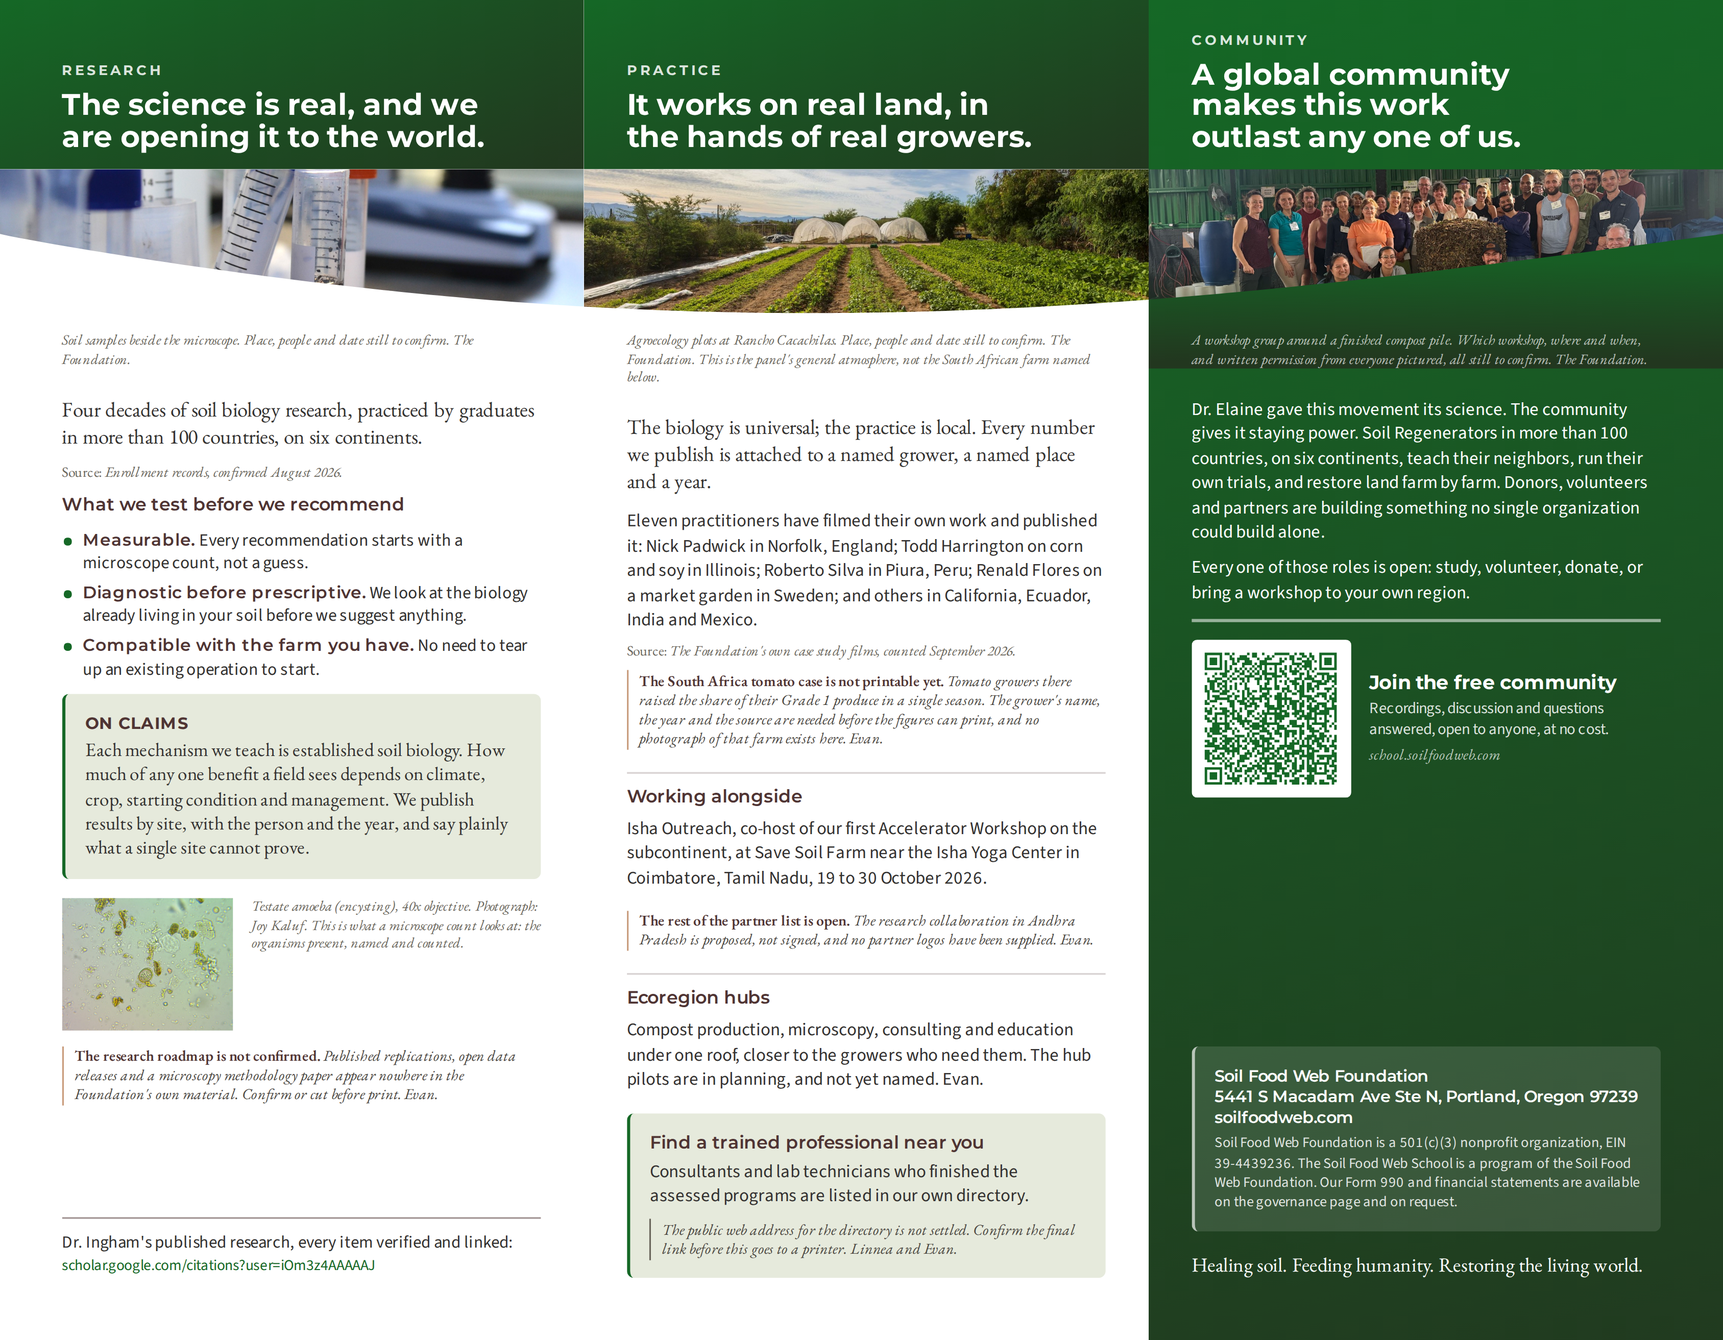
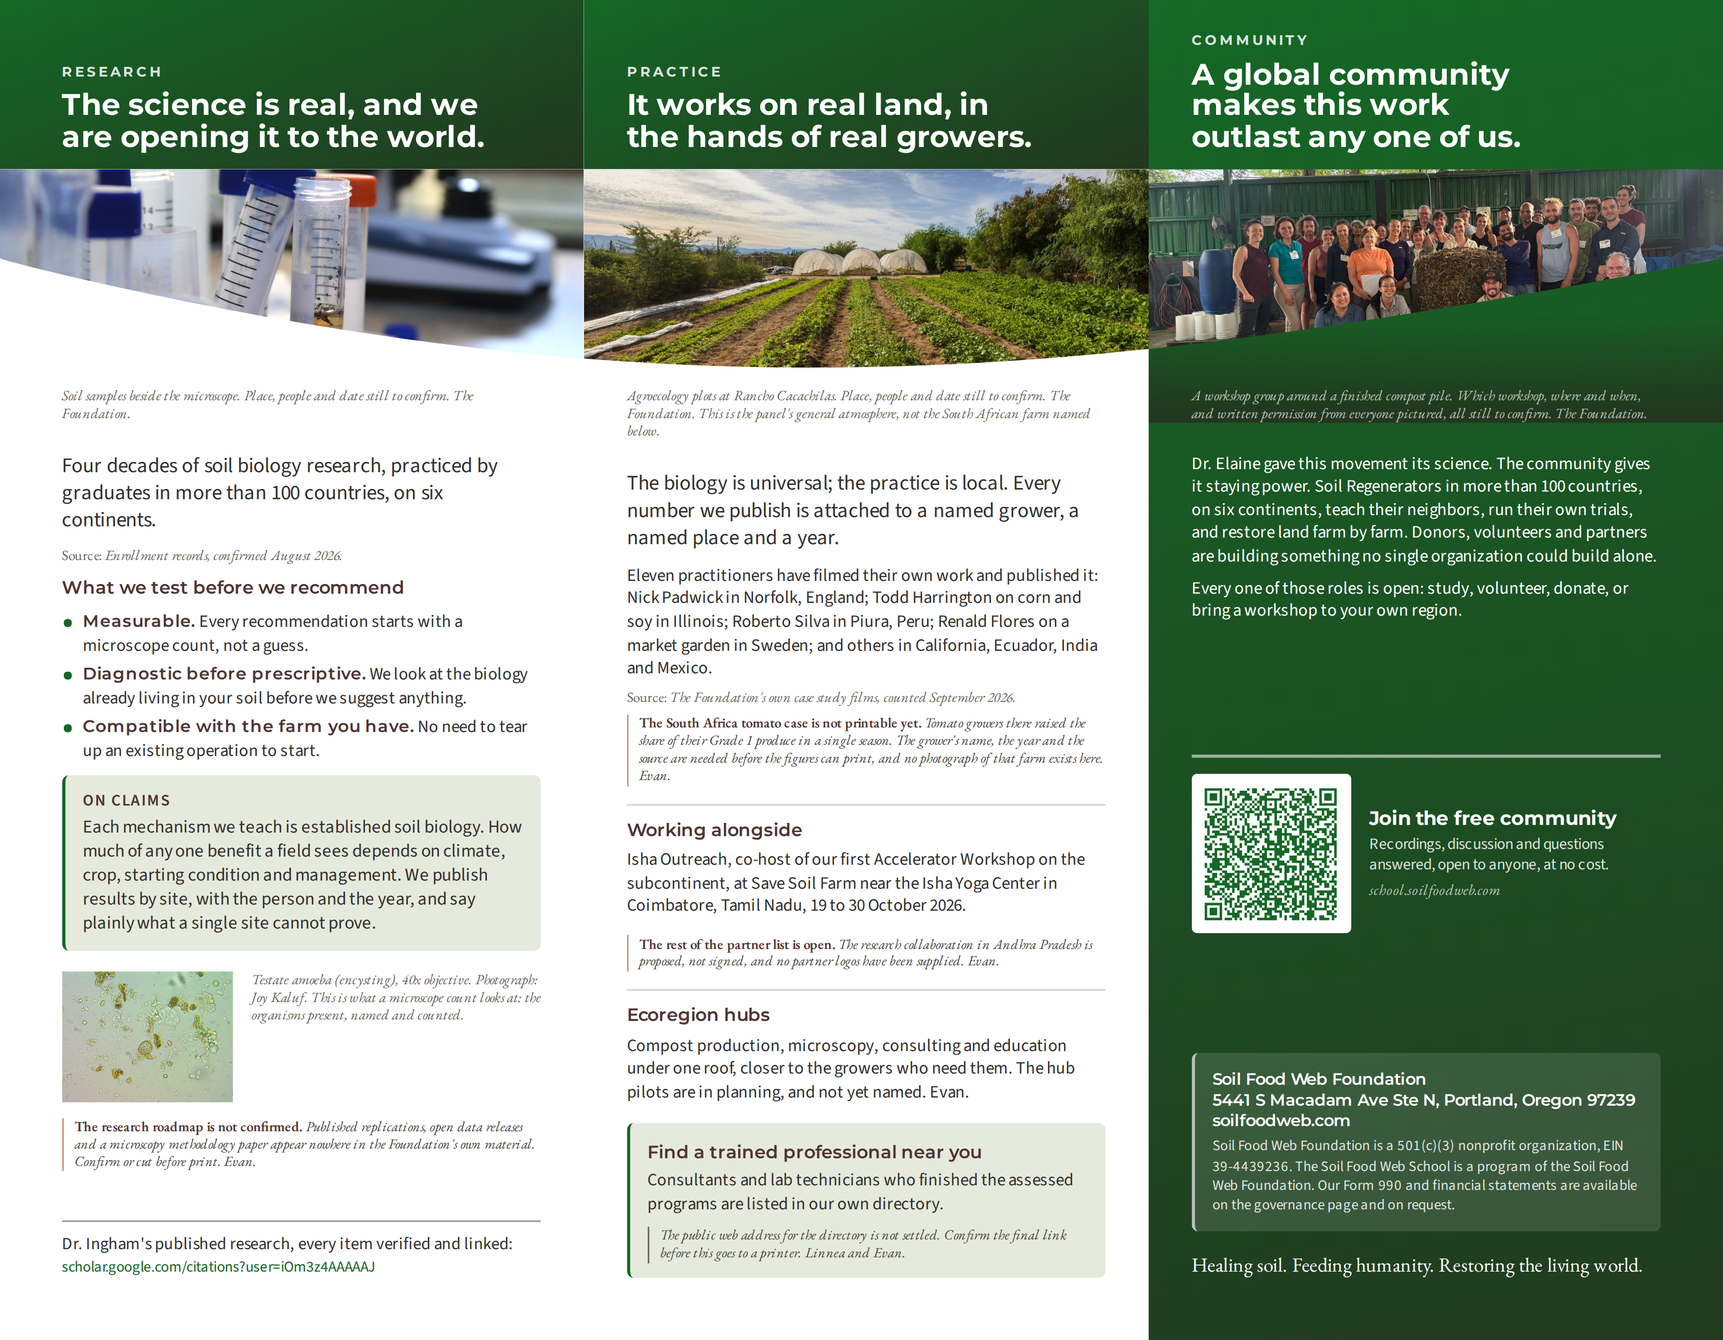
Fix the trifold: one type system, taller photographs, no hole on community
Three faults Linnea called out, all of them mine.

Type was doing four jobs with no rule. Running text was split between Source
Sans for paragraphs and EB Garamond for .lede and .pull, so two body faces sat
side by side doing the same work, and .pull set its own bold in Montserrat on
top of that. One face per job now: Montserrat for headings, labels and numbers,
Source Sans for every running text, EB Garamond left to the small editorial
apparatus, captions, source lines and production notes.

Photographs were 1.02in, which I had set to clear the practice panel and which
turned a portrait into a slice. Found the height in the type instead: body
8.15pt on 1.34, tighter paragraph gaps, production notes down to 6.6pt since a
flag should not weigh as much as the copy it questions, smaller card padding
and rules. Photographs are now 1.38in, a third taller, with every panel clear.

Dr. Ingham was cropped through the forehead and the caption promised a
microscope that was not in frame. Swapped to the landscape frame of her working
at the microscope, which fits a wide band and matches what the caption says.
The photograph credit is no longer asserted: the old line credited the School
for a different picture, and this one's provenance is not recorded here.

The community panel held the least copy, so its single spacer opened a hole in
the middle. Two spacers now: air after the body, air after the QR, with the
legal block and tagline grounded at the foot.
[…]

diff --git a/Trifold Design/build/inside.html b/Trifold Design/build/inside.html
@@ -17,7 +17,6 @@
          sitting in panel 5's right padding column, so it never meets copy. -->
     <div class="carry" aria-hidden="true"></div>
 
-
     <!-- ================= PANEL 4, RESEARCH ================= -->
     <section class="panel panel--wide panel--first" data-panel="4">
 
@@ -27,7 +26,7 @@
       </div>
 
       <figure class="figure figure--full figure--fade">
-        <img src="/img/Test tubes with sample_.jpg" alt="" style="object-position:50% 50%; clip-path: polygon(0% 0%, 100% 0%, 100.00% 87.91%, 98.44% 87.57%, 96.88% 87.21%, 95.31% 86.84%, 93.75% 86.46%, 92.19% 86.06%, 90.62% 85.65%, 89.06% 85.23%, 87.50% 84.80%, 85.94% 84.35%, 84.38% 83.88%, 82.81% 83.41%, 81.25% 82.92%, 79.69% 82.42%, 78.12% 81.91%, 76.56% 81.39%, 75.00% 80.85%, 73.44% 80.30%, 71.88% 79.74%, 70.31% 79.16%, 68.75% 78.57%, 67.19% 77.98%, 65.62% 77.36%, 64.06% 76.74%, 62.50% 76.11%, 60.94% 75.46%, 59.38% 74.80%, 57.81% 74.13%, 56.25% 73.45%, 54.69% 72.76%, 53.12% 72.06%, 51.56% 71.34%, 50.00% 70.62%, 48.44% 69.88%, 46.88% 69.14%, 45.31% 68.38%, 43.75% 67.61%, 42.19% 66.83%, 40.62% 66.04%, 39.06% 65.24%, 37.50% 64.43%, 35.94% 63.61%, 34.38% 62.78%, 32.81% 61.94%, 31.25% 61.09%, 29.69% 60.23%, 28.12% 59.36%, 26.56% 58.48%, 25.00% 57.59%, 23.44% 56.69%, 21.88% 55.78%, 20.31% 54.86%, 18.75% 53.93%, 17.19% 52.99%, 15.62% 52.03%, 14.06% 51.07%, 12.50% 50.09%, 10.94% 49.10%, 9.38% 48.09%, 7.81% 47.07%, 6.25% 46.03%, 4.69% 44.97%, 3.12% 43.87%, 1.56% 42.73%, 0.00% 41.45%)">
+        <img src="/img/Test tubes with sample_.jpg" alt="" style="object-position:50% 50%; clip-path: polygon(0% 0%, 100% 0%, 100.00% 89.57%, 98.44% 89.22%, 96.88% 88.86%, 95.31% 88.48%, 93.75% 88.09%, 92.19% 87.69%, 90.62% 87.27%, 89.06% 86.84%, 87.50% 86.40%, 85.94% 85.94%, 84.38% 85.47%, 82.81% 84.99%, 81.25% 84.49%, 79.69% 83.98%, 78.12% 83.46%, 76.56% 82.92%, 75.00% 82.37%, 73.44% 81.81%, 71.88% 81.24%, 70.31% 80.66%, 68.75% 80.06%, 67.19% 79.45%, 65.62% 78.83%, 64.06% 78.19%, 62.50% 77.54%, 60.94% 76.89%, 59.38% 76.22%, 57.81% 75.53%, 56.25% 74.84%, 54.69% 74.14%, 53.12% 73.42%, 51.56% 72.69%, 50.00% 71.95%, 48.44% 71.20%, 46.88% 70.44%, 45.31% 69.67%, 43.75% 68.89%, 42.19% 68.09%, 40.62% 67.29%, 39.06% 66.48%, 37.50% 65.65%, 35.94% 64.81%, 34.38% 63.97%, 32.81% 63.11%, 31.25% 62.25%, 29.69% 61.37%, 28.12% 60.48%, 26.56% 59.59%, 25.00% 58.68%, 23.44% 57.76%, 21.88% 56.83%, 20.31% 55.90%, 18.75% 54.95%, 17.19% 53.99%, 15.62% 53.01%, 14.06% 52.03%, 12.50% 51.04%, 10.94% 50.03%, 9.38% 49.00%, 7.81% 47.96%, 6.25% 46.90%, 4.69% 45.82%, 3.12% 44.70%, 1.56% 43.54%, 0.00% 42.23%)">
         <figcaption class="caption">Soil samples beside the microscope. Place,
           people and date still to confirm. The Foundation.</figcaption>
       </figure>
@@ -85,7 +84,7 @@
       </div>
 
       <figure class="figure figure--full figure--fade">
-        <img src="/img/erc-rancho-cacachilas-agro.jpg" alt="" style="object-position:50% 58%; clip-path: polygon(0% 0%, 100% 0%, 100.00% 83.47%, 98.44% 83.90%, 96.88% 84.31%, 95.31% 84.72%, 93.75% 85.12%, 92.19% 85.51%, 90.62% 85.89%, 89.06% 86.26%, 87.50% 86.61%, 85.94% 86.96%, 84.38% 87.30%, 82.81% 87.62%, 81.25% 87.94%, 79.69% 88.25%, 78.12% 88.54%, 76.56% 88.82%, 75.00% 89.09%, 73.44% 89.35%, 71.88% 89.60%, 70.31% 89.84%, 68.75% 90.07%, 67.19% 90.28%, 65.62% 90.49%, 64.06% 90.68%, 62.50% 90.86%, 60.94% 91.03%, 59.38% 91.18%, 57.81% 91.33%, 56.25% 91.46%, 54.69% 91.58%, 53.12% 91.69%, 51.56% 91.78%, 50.00% 91.87%, 48.44% 91.94%, 46.88% 92.00%, 45.31% 92.04%, 43.75% 92.08%, 42.19% 92.10%, 40.62% 92.11%, 39.06% 92.11%, 37.50% 92.09%, 35.94% 92.06%, 34.38% 92.02%, 32.81% 91.97%, 31.25% 91.90%, 29.69% 91.82%, 28.12% 91.73%, 26.56% 91.63%, 25.00% 91.51%, 23.44% 91.38%, 21.88% 91.24%, 20.31% 91.08%, 18.75% 90.92%, 17.19% 90.74%, 15.62% 90.54%, 14.06% 90.34%, 12.50% 90.12%, 10.94% 89.89%, 9.38% 89.64%, 7.81% 89.39%, 6.25% 89.12%, 4.69% 88.84%, 3.12% 88.54%, 1.56% 88.23%, 0.00% 87.91%)">
+        <img src="/img/erc-rancho-cacachilas-agro.jpg" alt="" style="object-position:50% 58%; clip-path: polygon(0% 0%, 100% 0%, 100.00% 85.04%, 98.44% 85.48%, 96.88% 85.91%, 95.31% 86.32%, 93.75% 86.73%, 92.19% 87.12%, 90.62% 87.51%, 89.06% 87.88%, 87.50% 88.25%, 85.94% 88.60%, 84.38% 88.95%, 82.81% 89.28%, 81.25% 89.60%, 79.69% 89.91%, 78.12% 90.21%, 76.56% 90.50%, 75.00% 90.78%, 73.44% 91.04%, 71.88% 91.29%, 70.31% 91.54%, 68.75% 91.77%, 67.19% 91.99%, 65.62% 92.19%, 64.06% 92.39%, 62.50% 92.57%, 60.94% 92.74%, 59.38% 92.90%, 57.81% 93.05%, 56.25% 93.19%, 54.69% 93.31%, 53.12% 93.42%, 51.56% 93.52%, 50.00% 93.60%, 48.44% 93.67%, 46.88% 93.73%, 45.31% 93.78%, 43.75% 93.82%, 42.19% 93.84%, 40.62% 93.85%, 39.06% 93.85%, 37.50% 93.83%, 35.94% 93.80%, 34.38% 93.76%, 32.81% 93.70%, 31.25% 93.64%, 29.69% 93.56%, 28.12% 93.46%, 26.56% 93.36%, 25.00% 93.24%, 23.44% 93.11%, 21.88% 92.96%, 20.31% 92.80%, 18.75% 92.63%, 17.19% 92.45%, 15.62% 92.25%, 14.06% 92.04%, 12.50% 91.82%, 10.94% 91.58%, 9.38% 91.34%, 7.81% 91.07%, 6.25% 90.80%, 4.69% 90.51%, 3.12% 90.21%, 1.56% 89.90%, 0.00% 89.57%)">
         <figcaption class="caption">Agroecology plots at Rancho Cacachilas.
           Place, people and date still to confirm. The Foundation. This is the
           panel's general atmosphere, not the South African farm named below.</figcaption>
@@ -148,7 +147,7 @@
       </div>
 
       <figure class="figure figure--full figure--fade">
-        <img src="/img/uploads/MAR Group Photo 2.jpg" alt="" style="object-position:50% 52%; clip-path: polygon(0% 0%, 100% 0%, 100.00% 41.45%, 98.44% 42.21%, 96.88% 42.97%, 95.31% 43.74%, 93.75% 44.50%, 92.19% 45.26%, 90.62% 46.02%, 89.06% 46.79%, 87.50% 47.55%, 85.94% 48.30%, 84.38% 49.06%, 82.81% 49.82%, 81.25% 50.57%, 79.69% 51.33%, 78.12% 52.08%, 76.56% 52.83%, 75.00% 53.57%, 73.44% 54.32%, 71.88% 55.06%, 70.31% 55.80%, 68.75% 56.53%, 67.19% 57.27%, 65.62% 58.00%, 64.06% 58.72%, 62.50% 59.44%, 60.94% 60.16%, 59.38% 60.88%, 57.81% 61.59%, 56.25% 62.29%, 54.69% 63.00%, 53.12% 63.69%, 51.56% 64.38%, 50.00% 65.07%, 48.44% 65.75%, 46.88% 66.43%, 45.31% 67.10%, 43.75% 67.77%, 42.19% 68.43%, 40.62% 69.08%, 39.06% 69.73%, 37.50% 70.37%, 35.94% 71.00%, 34.38% 71.63%, 32.81% 72.25%, 31.25% 72.87%, 29.69% 73.47%, 28.12% 74.07%, 26.56% 74.67%, 25.00% 75.25%, 23.44% 75.83%, 21.88% 76.40%, 20.31% 76.96%, 18.75% 77.51%, 17.19% 78.06%, 15.62% 78.59%, 14.06% 79.12%, 12.50% 79.64%, 10.94% 80.15%, 9.38% 80.65%, 7.81% 81.15%, 6.25% 81.63%, 4.69% 82.10%, 3.12% 82.57%, 1.56% 83.02%, 0.00% 83.47%)">
+        <img src="/img/uploads/MAR Group Photo 2.jpg" alt="" style="object-position:50% 52%; clip-path: polygon(0% 0%, 100% 0%, 100.00% 42.23%, 98.44% 43.01%, 96.88% 43.79%, 95.31% 44.56%, 93.75% 45.34%, 92.19% 46.12%, 90.62% 46.89%, 89.06% 47.67%, 87.50% 48.44%, 85.94% 49.22%, 84.38% 49.99%, 82.81% 50.76%, 81.25% 51.53%, 79.69% 52.30%, 78.12% 53.06%, 76.56% 53.82%, 75.00% 54.58%, 73.44% 55.34%, 71.88% 56.10%, 70.31% 56.85%, 68.75% 57.60%, 67.19% 58.35%, 65.62% 59.09%, 64.06% 59.83%, 62.50% 60.57%, 60.94% 61.30%, 59.38% 62.03%, 57.81% 62.75%, 56.25% 63.47%, 54.69% 64.19%, 53.12% 64.90%, 51.56% 65.60%, 50.00% 66.30%, 48.44% 66.99%, 46.88% 67.68%, 45.31% 68.37%, 43.75% 69.05%, 42.19% 69.72%, 40.62% 70.38%, 39.06% 71.04%, 37.50% 71.70%, 35.94% 72.34%, 34.38% 72.98%, 32.81% 73.62%, 31.25% 74.24%, 29.69% 74.86%, 28.12% 75.47%, 26.56% 76.08%, 25.00% 76.67%, 23.44% 77.26%, 21.88% 77.84%, 20.31% 78.41%, 18.75% 78.98%, 17.19% 79.53%, 15.62% 80.08%, 14.06% 80.62%, 12.50% 81.15%, 10.94% 81.67%, 9.38% 82.18%, 7.81% 82.68%, 6.25% 83.17%, 4.69% 83.65%, 3.12% 84.13%, 1.56% 84.59%, 0.00% 85.04%)">
         <figcaption class="caption">A workshop group around a finished compost
           pile. Which workshop, where and when, and written permission from
           everyone pictured, all still to confirm. The Foundation.</figcaption>
@@ -162,6 +161,8 @@
 
       <p>Every one of those roles is open: study, volunteer, donate, or bring a
         workshop to your own region.</p>
+
+      <div class="spacer"></div>
 
       <div class="qr qr--green" style="margin-top:0.02in">
         <img src="qr/community.svg" alt="">

diff --git a/Trifold Design/build/outside.html b/Trifold Design/build/outside.html
@@ -24,7 +24,7 @@
       </div>
 
       <figure class="figure figure--full figure--fade" style="margin-top:0.15in">
-        <img src="/img/handling-loose-soil.jpg" alt="" style="object-position:50% 52%; clip-path: polygon(0% 0%, 100% 0%, 100.00% 95.80%, 98.44% 95.46%, 96.88% 95.10%, 95.31% 94.73%, 93.75% 94.35%, 92.19% 93.95%, 90.62% 93.54%, 89.06% 93.12%, 87.50% 92.69%, 85.94% 92.24%, 84.38% 91.78%, 82.81% 91.30%, 81.25% 90.81%, 79.69% 90.31%, 78.12% 89.80%, 76.56% 89.28%, 75.00% 88.74%, 73.44% 88.19%, 71.88% 87.63%, 70.31% 87.05%, 68.75% 86.46%, 67.19% 85.87%, 65.62% 85.25%, 64.06% 84.63%, 62.50% 84.00%, 60.94% 83.35%, 59.38% 82.69%, 57.81% 82.02%, 56.25% 81.34%, 54.69% 80.65%, 53.12% 79.95%, 51.56% 79.23%, 50.00% 78.51%, 48.44% 77.77%, 46.88% 77.03%, 45.31% 76.27%, 43.75% 75.50%, 42.19% 74.72%, 40.62% 73.93%, 39.06% 73.13%, 37.50% 72.32%, 35.94% 71.50%, 34.38% 70.67%, 32.81% 69.83%, 31.25% 68.98%, 29.69% 68.12%, 28.12% 67.25%, 26.56% 66.37%, 25.00% 65.48%, 23.44% 64.58%, 21.88% 63.67%, 20.31% 62.75%, 18.75% 61.82%, 17.19% 60.88%, 15.62% 59.92%, 14.06% 58.96%, 12.50% 57.98%, 10.94% 56.99%, 9.38% 55.98%, 7.81% 54.96%, 6.25% 53.92%, 4.69% 52.86%, 3.12% 51.76%, 1.56% 50.62%, 0.00% 49.34%)">
+        <img src="/img/handling-loose-soil.jpg" alt="" style="object-position:50% 52%; clip-path: polygon(0% 0%, 100% 0%, 100.00% 95.73%, 98.44% 95.38%, 96.88% 95.01%, 95.31% 94.63%, 93.75% 94.24%, 92.19% 93.84%, 90.62% 93.42%, 89.06% 92.99%, 87.50% 92.55%, 85.94% 92.09%, 84.38% 91.62%, 82.81% 91.14%, 81.25% 90.64%, 79.69% 90.13%, 78.12% 89.61%, 76.56% 89.07%, 75.00% 88.53%, 73.44% 87.96%, 71.88% 87.39%, 70.31% 86.81%, 68.75% 86.21%, 67.19% 85.60%, 65.62% 84.98%, 64.06% 84.34%, 62.50% 83.70%, 60.94% 83.04%, 59.38% 82.37%, 57.81% 81.69%, 56.25% 80.99%, 54.69% 80.29%, 53.12% 79.57%, 51.56% 78.84%, 50.00% 78.10%, 48.44% 77.35%, 46.88% 76.59%, 45.31% 75.82%, 43.75% 75.04%, 42.19% 74.24%, 40.62% 73.44%, 39.06% 72.63%, 37.50% 71.80%, 35.94% 70.97%, 34.38% 70.12%, 32.81% 69.26%, 31.25% 68.40%, 29.69% 67.52%, 28.12% 66.63%, 26.56% 65.74%, 25.00% 64.83%, 23.44% 63.91%, 21.88% 62.98%, 20.31% 62.05%, 18.75% 61.10%, 17.19% 60.14%, 15.62% 59.17%, 14.06% 58.18%, 12.50% 57.19%, 10.94% 56.18%, 9.38% 55.15%, 7.81% 54.11%, 6.25% 53.05%, 4.69% 51.97%, 3.12% 50.85%, 1.56% 49.69%, 0.00% 48.38%)">
         <figcaption class="caption">Soil crumbled by hand at the edge of a
           planted field. Place, people and date still to confirm. The Foundation.</figcaption>
       </figure>
@@ -65,9 +65,9 @@
       </div>
 
       <figure class="figure figure--full figure--fade">
-        <img src="/img/Dr Elaine Ingham with Microscope.jpg" alt="" style="object-position:50% 36%; clip-path: polygon(0% 0%, 100% 0%, 100.00% 83.47%, 98.44% 83.90%, 96.88% 84.31%, 95.31% 84.72%, 93.75% 85.12%, 92.19% 85.51%, 90.62% 85.89%, 89.06% 86.26%, 87.50% 86.61%, 85.94% 86.96%, 84.38% 87.30%, 82.81% 87.62%, 81.25% 87.94%, 79.69% 88.25%, 78.12% 88.54%, 76.56% 88.82%, 75.00% 89.09%, 73.44% 89.35%, 71.88% 89.60%, 70.31% 89.84%, 68.75% 90.07%, 67.19% 90.28%, 65.62% 90.49%, 64.06% 90.68%, 62.50% 90.86%, 60.94% 91.03%, 59.38% 91.18%, 57.81% 91.33%, 56.25% 91.46%, 54.69% 91.58%, 53.12% 91.69%, 51.56% 91.78%, 50.00% 91.87%, 48.44% 91.94%, 46.88% 92.00%, 45.31% 92.04%, 43.75% 92.08%, 42.19% 92.10%, 40.62% 92.11%, 39.06% 92.11%, 37.50% 92.09%, 35.94% 92.06%, 34.38% 92.02%, 32.81% 91.97%, 31.25% 91.90%, 29.69% 91.82%, 28.12% 91.73%, 26.56% 91.63%, 25.00% 91.51%, 23.44% 91.38%, 21.88% 91.24%, 20.31% 91.08%, 18.75% 90.92%, 17.19% 90.74%, 15.62% 90.54%, 14.06% 90.34%, 12.50% 90.12%, 10.94% 89.89%, 9.38% 89.64%, 7.81% 89.39%, 6.25% 89.12%, 4.69% 88.84%, 3.12% 88.54%, 1.56% 88.23%, 0.00% 87.91%)">
-        <figcaption class="caption">Dr. Ingham at the microscope. Photograph:
-          Soil Food Web School. Dr. Elaine Ingham, 1952 to 2026; birth year
+        <img src="/img/Elaine Flower Shirt Microscope.png" alt="" style="object-position:50% 20%; clip-path: polygon(0% 0%, 100% 0%, 100.00% 85.04%, 98.44% 85.48%, 96.88% 85.91%, 95.31% 86.32%, 93.75% 86.73%, 92.19% 87.12%, 90.62% 87.51%, 89.06% 87.88%, 87.50% 88.25%, 85.94% 88.60%, 84.38% 88.95%, 82.81% 89.28%, 81.25% 89.60%, 79.69% 89.91%, 78.12% 90.21%, 76.56% 90.50%, 75.00% 90.78%, 73.44% 91.04%, 71.88% 91.29%, 70.31% 91.54%, 68.75% 91.77%, 67.19% 91.99%, 65.62% 92.19%, 64.06% 92.39%, 62.50% 92.57%, 60.94% 92.74%, 59.38% 92.90%, 57.81% 93.05%, 56.25% 93.19%, 54.69% 93.31%, 53.12% 93.42%, 51.56% 93.52%, 50.00% 93.60%, 48.44% 93.67%, 46.88% 93.73%, 45.31% 93.78%, 43.75% 93.82%, 42.19% 93.84%, 40.62% 93.85%, 39.06% 93.85%, 37.50% 93.83%, 35.94% 93.80%, 34.38% 93.76%, 32.81% 93.70%, 31.25% 93.64%, 29.69% 93.56%, 28.12% 93.46%, 26.56% 93.36%, 25.00% 93.24%, 23.44% 93.11%, 21.88% 92.96%, 20.31% 92.80%, 18.75% 92.63%, 17.19% 92.45%, 15.62% 92.25%, 14.06% 92.04%, 12.50% 91.82%, 10.94% 91.58%, 9.38% 91.34%, 7.81% 91.07%, 6.25% 90.80%, 4.69% 90.51%, 3.12% 90.21%, 1.56% 89.90%, 0.00% 89.57%)">
+        <figcaption class="caption">Dr. Ingham at the microscope. Photograph
+          credit still to confirm. Dr. Elaine Ingham, 1952 to 2026; birth year
           still to confirm against the obituary.</figcaption>
       </figure>
 
@@ -119,7 +119,7 @@
       </div>
 
       <figure class="figure figure--full figure--fade">
-        <img src="/img/uploads/Loida Teaching 3.JPG" alt="" style="object-position:50% 22%; clip-path: polygon(0% 0%, 100% 0%, 100.00% 41.45%, 98.44% 42.21%, 96.88% 42.97%, 95.31% 43.74%, 93.75% 44.50%, 92.19% 45.26%, 90.62% 46.02%, 89.06% 46.79%, 87.50% 47.55%, 85.94% 48.30%, 84.38% 49.06%, 82.81% 49.82%, 81.25% 50.57%, 79.69% 51.33%, 78.12% 52.08%, 76.56% 52.83%, 75.00% 53.57%, 73.44% 54.32%, 71.88% 55.06%, 70.31% 55.80%, 68.75% 56.53%, 67.19% 57.27%, 65.62% 58.00%, 64.06% 58.72%, 62.50% 59.44%, 60.94% 60.16%, 59.38% 60.88%, 57.81% 61.59%, 56.25% 62.29%, 54.69% 63.00%, 53.12% 63.69%, 51.56% 64.38%, 50.00% 65.07%, 48.44% 65.75%, 46.88% 66.43%, 45.31% 67.10%, 43.75% 67.77%, 42.19% 68.43%, 40.62% 69.08%, 39.06% 69.73%, 37.50% 70.37%, 35.94% 71.00%, 34.38% 71.63%, 32.81% 72.25%, 31.25% 72.87%, 29.69% 73.47%, 28.12% 74.07%, 26.56% 74.67%, 25.00% 75.25%, 23.44% 75.83%, 21.88% 76.40%, 20.31% 76.96%, 18.75% 77.51%, 17.19% 78.06%, 15.62% 78.59%, 14.06% 79.12%, 12.50% 79.64%, 10.94% 80.15%, 9.38% 80.65%, 7.81% 81.15%, 6.25% 81.63%, 4.69% 82.10%, 3.12% 82.57%, 1.56% 83.02%, 0.00% 83.47%)">
+        <img src="/img/uploads/Loida Teaching 3.JPG" alt="" style="object-position:50% 22%; clip-path: polygon(0% 0%, 100% 0%, 100.00% 42.23%, 98.44% 43.01%, 96.88% 43.79%, 95.31% 44.56%, 93.75% 45.34%, 92.19% 46.12%, 90.62% 46.89%, 89.06% 47.67%, 87.50% 48.44%, 85.94% 49.22%, 84.38% 49.99%, 82.81% 50.76%, 81.25% 51.53%, 79.69% 52.30%, 78.12% 53.06%, 76.56% 53.82%, 75.00% 54.58%, 73.44% 55.34%, 71.88% 56.10%, 70.31% 56.85%, 68.75% 57.60%, 67.19% 58.35%, 65.62% 59.09%, 64.06% 59.83%, 62.50% 60.57%, 60.94% 61.30%, 59.38% 62.03%, 57.81% 62.75%, 56.25% 63.47%, 54.69% 64.19%, 53.12% 64.90%, 51.56% 65.60%, 50.00% 66.30%, 48.44% 66.99%, 46.88% 67.68%, 45.31% 68.37%, 43.75% 69.05%, 42.19% 69.72%, 40.62% 70.38%, 39.06% 71.04%, 37.50% 71.70%, 35.94% 72.34%, 34.38% 72.98%, 32.81% 73.62%, 31.25% 74.24%, 29.69% 74.86%, 28.12% 75.47%, 26.56% 76.08%, 25.00% 76.67%, 23.44% 77.26%, 21.88% 77.84%, 20.31% 78.41%, 18.75% 78.98%, 17.19% 79.53%, 15.62% 80.08%, 14.06% 80.62%, 12.50% 81.15%, 10.94% 81.67%, 9.38% 82.18%, 7.81% 82.68%, 6.25% 83.17%, 4.69% 83.65%, 3.12% 84.13%, 1.56% 84.59%, 0.00% 85.04%)">
         <figcaption class="caption">A mentor teaching on working land. Place,
           people and date still to confirm. The Foundation.</figcaption>
       </figure>

diff --git a/Trifold Design/build/trifold.css b/Trifold Design/build/trifold.css
@@ -44,7 +44,7 @@
      pulling the photograph up with them, which is what made the panels look
      unrelated. */
   --band-h:  0.98in;
-  --photo-h: 1.02in;
+  --photo-h: 1.38in;
 }
 
 /* Fonts, self-hosted and subsetted, from the repository's own fonts/ folder.
@@ -85,8 +85,8 @@ html, body { margin: 0; padding: 0; background: var(--paper); }
   background: var(--paper);
   color: var(--ink);
   font-family: var(--sans);
-  font-size: 8.4pt;
-  line-height: 1.38;
+  font-size: 8.15pt;
+  line-height: 1.34;
   overflow: hidden;
 }
 .panel--wide { width: var(--w-wide); flex: 0 0 var(--w-wide); }
@@ -100,7 +100,7 @@ html, body { margin: 0; padding: 0; background: var(--paper); }
 /* --------------------------------------------------------------------------
    Type
    -------------------------------------------------------------------------- */
-p, ul { margin: 0 0 0.07in; }
+p, ul { margin: 0 0 0.055in; }
 p:last-child, ul:last-child { margin-bottom: 0; }
 strong { font-weight: 600; }
 
@@ -135,13 +135,13 @@ h3 {
   font-size: 8.4pt;
   color: var(--soil);
   line-height: 1.2;
-  margin: 0 0 0.03in;
+  margin: 0.02in 0 0.025in;
 }
 
 /* EB Garamond carries the small, considered text: ledes, captions, figure
    labels and pull quotes. css/site.css section 1, --text-serif. */
 .lede {
-  font-family: var(--serif);
+  font-family: var(--sans);
   font-size: 9.8pt;
   line-height: 1.3;
   color: var(--ink);
@@ -164,23 +164,23 @@ h3 {
 .awaiting {
   font-family: var(--serif);
   font-style: italic;
-  font-size: 7.1pt;
-  line-height: 1.28;
+  font-size: 6.6pt;
+  line-height: 1.24;
   color: var(--ink-soft);
   border-left: 1.4pt solid var(--tan);
   padding: 0.005in 0 0.005in 0.07in;
-  margin: 0.06in 0;
+  margin: 0.05in 0;
 }
 .awaiting b { font-style: normal; font-weight: 600; color: var(--soil); }
 
 .pull {
-  font-family: var(--serif);
-  font-size: 8.9pt;
-  line-height: 1.29;
+  font-family: var(--sans);
+  font-size: 8.5pt;
+  line-height: 1.31;
   color: var(--ink);
 }
 .pull b {
-  font-family: var(--display);
+  font-family: var(--sans);
   font-weight: 700;
   font-size: 7.6pt;
   letter-spacing: .06em;
@@ -200,7 +200,7 @@ h3 {
 /* --------------------------------------------------------------------------
    Shapes and rules
    -------------------------------------------------------------------------- */
-.hr   { border: 0; border-top: 0.7pt solid var(--rule); margin: 0.085in 0; }
+.hr   { border: 0; border-top: 0.7pt solid var(--rule); margin: 0.07in 0; }
 .hr--strong { border-top: 1pt solid var(--rule-strong); }
 
 /* --------------------------------------------------------------------------
@@ -380,7 +380,7 @@ h3 {
 /* Organic Cream as a bounded rectangle behind a group, never as the page. */
 .card {
   background: var(--panel-green);
-  padding: 0.12in 0.13in;
+  padding: 0.10in 0.115in;
   border-radius: 0.045in;
   border-left: 1.6pt solid var(--green);
 }
